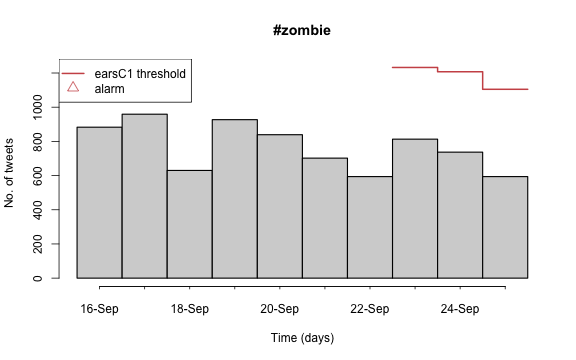
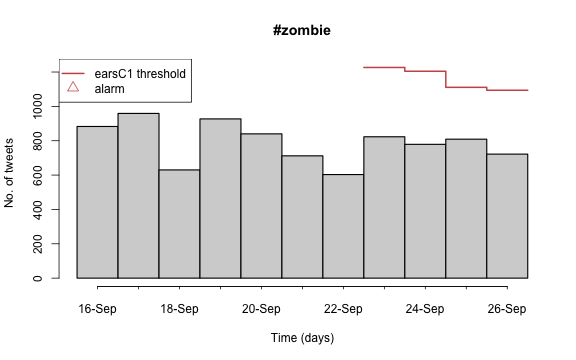
added cusum

diff --git a/_posts/2016-09-25-sootb.md b/_posts/2016-09-25-sootb.md
@@ -6,23 +6,7 @@ bibliography: ~/Literature/Bibtex/jabref.bib
 comments: true
 ---
 
-```{r,include=FALSE,echo=FALSE,message=FALSE}
-##If default fig.path, then set it.
-if (knitr::opts_chunk$get("fig.path") == "figure/") {
-  knitr::opts_knit$set( base.dir = '/Users/hoehle/Sandbox/Blog/')
-  knitr::opts_chunk$set(fig.path="figure/source/2016-09-25-sootb/")
-}
-fullFigPath <- paste0(knitr::opts_knit$get("base.dir"),knitr::opts_chunk$get("fig.path"))
-filePath <- "/Users/hoehle/Sandbox/Blog/figure/source/2016-09-25-sootb/"
 
-knitr::opts_chunk$set(echo = TRUE,fig.width=8,fig.height=5,fig.cap='')
-options(width=90)
-library("dplyr")
-library("ggplot2")
-library("tidyr")
-library("methods")
-theme_set(theme_bw())
-```
 
 ## Abstract
 
@@ -59,7 +43,8 @@ However, despite of extensive research and recommendations, no reliable service 
 Extending the recommendations of the Zombie Survival guide we provide an out-of-the-box (OOTB)
 monitoring system by using the `rtweet` R package to obtain all individual tweets containing the hashtags `#zombie` or `#zombieattack`.
 
-```{r}
+
+```r
 the_query <- "#zombieattack OR #zombie"
 geocode <- ""  #To limit the seach to berlin & surroundings: geocode <- "52.520583,13.402765,25km"
 #Converted query string which works for storing as file
@@ -72,64 +57,51 @@ In particular, the [README](https://github.com/mkearney/rtweet) of the `rtweet` 
 * each tweet is extended with a time stamp of the query-time
 * the entire result of each query us stored into a separate RDS-files using `saveRDS`
 
-```{r,eval=FALSE,echo=FALSE}
-library("rtweet")
-# A file containing the information of your twitter app. To protect the
-# information stored here, this is kept outside the public git repository.
-#
-# The contents of the file are simply:
-# twitter_token <- create_token(app = "zombiemonitor", # whatever you named app
-#   consumer_key = "2zIXXX4L6USa4UfXXXXXXXXXX",
-#   consumer_secret = "oXXXXXXXSwwXXXXXXXXXXXXXXsXXXXXXXmXXXXXXXX")
 
-source("~/Sandbox/Twitter-Trends/auth-zombie.R",encoding="UTF8")
-
-#Perform the query and add time stamp information
-tw_one <- search_tweets(the_query, n = 15000, type="recent", token = twitter_token, geocode=geocode)
-tw_one <- tw_one %>% mutate(query_at = Sys.time(), created_at_Date = as.Date(created_at), the_query = the_query)
-
-#Show what we got
-tw_one %>% summarise(n=n())
-
-#Store to file
-saveRDS(tw_one, file=paste0(filePath,"Stored-Tweets-",safe_query,"-",Sys.Date(),".RDS"))
-```
 
 In a next step, all stored queries are loaded from the RDS files and put together. Subsequently, only the newest time stamped entry about each tweet is kept - this ensures that the re-tweeted counts are up-to-date and no post is counted twice. All these data wrangling operations are easily conducted using `dplyr`. Of course a full database solution would have been more elegant, but R does the job just as well as long it's not millions of queries. Actually, in the example I'm going to use the results of a single query. No matter the data backend, at the end of this pipeline we have a database of tweets. 
 
-```{r,eval=FALSE,echo=FALSE}
-##Load all stored tweet queries
-data_files <- list.files(path = filePath, pattern = paste0("Stored-Tweets-",safe_query,"-*"),full.names=TRUE)
-tw <- as.tbl(bind_rows(lapply(data_files, readRDS)))
 
-##Only keep the newest entry available about each post (retweet counts could have changed)
-tw <- tw %>% group_by(status_id) %>% filter(query_at == max(query_at)) %>% ungroup()
 
-#Store results, this constitutes our database of tweets.
-saveRDS(tw, file=paste0(filePath,"Tweets-Database-",safe_query,"-",Sys.Date(),".RDS"))
-```
 
-```{r}
+```r
 #Read the tweet database
 tw <- readRDS(file=paste0(filePath,"Tweets-Database-",safe_query,"-","2016-09-26",".RDS"))
 options(width=300,tibble.width = Inf)
 tw %>% select(created_at, retweet_count,screen_name,text,hashtags,query_at)
 ```
-```{r,echo=FALSE}
-options(width=90)
+
 ```
+## # A tibble: 12,931 × 6
+##             created_at retweet_count     screen_name                                                                                                                                         text  hashtags            query_at
+##                 <dttm>         <int>           <chr>                                                                                                                                        <chr>    <list>              <dttm>
+## 1  2016-09-25 06:16:28             6 christinebygrav  RT @GEEKYGIRLMMM: #TheWalkingDead #zombie #handmade #travel bag set https://t.co/rdGveWjBVC  #epiconetsy #craftshout #twdfanbas https://t.c <chr [7]> 2016-09-25 10:30:44
+## 2  2016-09-25 05:53:37             2 christinebygrav  RT @GEEKYGIRLMMM: #TheWalkingDead #zombie #handmade #travel bag set https://t.co/rdGveWjBVC  #epiconetsy #craftshout #twdfanbas https://t.c <chr [7]> 2016-09-25 10:30:44
+## 3  2016-09-25 04:45:11             0 KneelBeforeBlog   #TheGirlWithAlltheGifts #MovieReview https://t.co/Oewq6gShPx #GemmaArterton #PaddyConsidine #GlennClose #SenniaNanua #ColmMcCarthy #zombie <chr [8]> 2016-09-25 10:30:44
+## 4  2016-09-25 04:45:10             0     Nemesis4909   #TheGirlWithAlltheGifts #MovieReview https://t.co/AEhhGWYsmw #GemmaArterton #PaddyConsidine #GlennClose #SenniaNanua #ColmMcCarthy #zombie <chr [8]> 2016-09-25 10:30:44
+## 5  2016-09-25 04:28:51             1      donaldo945  RT @NorthWestDecks: Sonic The Hedgehog ZOMBIE Skateboard! #northwestdecks #skateboard #skateboarding #skate #skater #skatelife #zombie http <chr [7]> 2016-09-25 10:30:44
+## 6  2016-09-25 04:03:48             2    clarksonm369   RT @thelovelymars: Throwback to being walkers for Halloween with this chica. #TheWalkingDead #walkers #zombie #twd https://t.co/xPqVnUrAwU <chr [4]> 2016-09-25 10:30:44
+## 7  2016-09-25 01:45:55            62     ColleenTews RT @PennilessScribe: He would end her pain, but he could no longer live in a world that demanded such sacrifice. #zombie #apocalypse\nhttps: <chr [2]> 2016-09-25 10:30:44
+## 8  2016-09-24 23:45:22             0     Nemesis4909   #TheGirlWithAlltheGifts #MovieReview https://t.co/AEhhGWYsmw #GemmaArterton #PaddyConsidine #ColmMcCarthy #GlennClose #SenniaNanua #zombie <chr [8]> 2016-09-25 10:30:44
+## 9  2016-09-24 23:45:21             0 KneelBeforeBlog   #TheGirlWithAlltheGifts #MovieReview https://t.co/Oewq6gShPx #GemmaArterton #PaddyConsidine #ColmMcCarthy #GlennClose #SenniaNanua #zombie <chr [8]> 2016-09-25 10:30:44
+## 10 2016-09-24 23:20:07             2   BlizzGetsBizz   RT @tr1lla_van1lla: hit me in advance for Halloween makeup!!! so excited for fall  #specialeffects #sfx #makeup #halloween #zombie https:/ <chr [5]> 2016-09-25 10:30:44
+## # ... with 12,921 more rows
+```
+
 
 ### OOTB Zombie Surveillance 
 
 We are now ready to prospectively detect changes using the `surveillance` R package [@salmon_etal2016a].
 
-```{r,message=FALSE,warning=FALSE}
+
+```r
 library("surveillance")
 ```
 
 We shall initially focus on the `#zombie` series as it contains more counts. The first step is to convert the `data.frame` of individual tweets into a time series of daily counts.
 
-```{r}
+
+```r
 #' Function to convert data.frame to queries. For convenience we store the time series
 #' and the data.frame jointly as a list. This allows for easy manipulations later on
 #' as we see data.frame and time series to be a joint package.
@@ -155,36 +127,11 @@ zombie <- df_2_timeseries(tw, the_query_subset = "#zombie")
 
 It's easy to visualize the resulting time series using the plotting functionality of the surveillance package.
 
-```{r,echo=FALSE}
-plot(zombie$ts, legend.opts=NULL,
-          xaxis.tickFreq=list("%d"=atChange,"%m"=atChange),
-          xaxis.labelFreq=list("%d"=at2ndChange),xaxis.labelFormat="%d-%b",
-     xlab="Time (days)",col=c("lightgray","black","indianred3"),
-     lty=c(1,1,1,1),lwd=c(1.5,2,2),main=zombie$the_query_subset,ylab="No. of tweets")
-```
+![](http://staff.math.su.se/hoehle/blog/figure/source/2016-09-25-sootb/unnamed-chunk-9-1.png)
 
 We see that the counts on the last day are incomplete. This is because the query was performed at 10:30 CEST and not at midnight. We therefore adjust counts on the last day based on simple inverse probability weighting. This just means that we scale up the counts by the inverse of the fraction the query-hour (10:30 CEST) makes up of 24h (see github code for details). The usefulness of this adjustment relies on the assumption that queries are evenly distributed over the day. 
 
-```{r,echo=FALSE,message=FALSE}
-#' Scale up incomplete cases on the last day
-#'
-#' @param tsl Time series list containing the data.frame of tweets as well as the sts time series
 
-scale_up_last_day <- function(tsl) {
-  require("lubridate")
-  max_time <- tsl$tw %>% select(query_at) %>% summarise(m=max(query_at))
-  when_query <- hour(max_time$m) + minute(max_time$m)/60 + second(max_time$m)/(60*60)
-  scaling_factor <- 24 / when_query
-
-  idx <- which(epoch(tsl$ts) == as.Date(max_time$m))
-
-  #Crude inverse probability weighting to adjust the counts for today.
-  observed(tsl$ts)[idx,] <- round(observed(tsl$ts)[idx,] * scaling_factor)
-  return(tsl)
-}
-
-zombie <- scale_up_last_day(zombie)
-```
 
 We are now ready to apply a surveillance algorithm to the pre-processed time series. We shall pick the so called C1 version of the EARS algorithm documented in @hutwagner_etal2003 or @fricker_etal2008. For a monitored time point $s$ (here: a particular day, say, 2016-09-23), this simple algorithm takes the previous seven observations before $s$ in order to compute the mean and standard deviation, i.e.
 $$
@@ -197,56 +144,21 @@ The algorithm then computes the z-statistic $\operatorname{C1}_s = (y_s - \bar{y
 
 We now apply the EARS C1 monitoring procedure to the zombie time series starting at the 8th day  of the time series. It is important to realize that the result of monitoring a time point in the graphic is obtained by only **looking into the past**. Hence, the relevant time point to consider today is if an alarm would have occurred 2016-09-25. We also show the other time points to see, if we could have detected potential alarms earlier.
 
-```{r}
+
+```r
 zombie[["sts"]] <- earsC(zombie$ts, control=list(range = 8:nrow(zombie$ts),
                          method = "C1", alpha = 1-pnorm(3)))
 ```
 
-```{r,ZOMBIE-TS,echo=FALSE}
-plot_ts_and_sts <- function(tsl,legend_l1="earsC1 threshold") {
-  plot(tsl$ts, legend.opts=NULL,
-       xaxis.tickFreq=list("%d"=atChange,"%m"=atChange),
-       xaxis.labelFreq=list("%d"=at2ndChange),xaxis.labelFormat="%d-%b",
-       xlab="Time (days)",col=c("lightgray","black","indianred3"),
-       lty=c(1,1,1,1),lwd=c(1.5,2,2),main=tsl$the_query,ylab="No. of tweets", ylim=c(0,max(observed(tsl$ts),upperbound(tsl$sts))))
+![](http://staff.math.su.se/hoehle/blog/figure/source/2016-09-25-sootb/ZOMBIE-TS-1.png)
 
-  idx <- seq_len(nrow(tsl$ts))
-  idx_monitor <- which( epoch(tsl$ts) %in% epoch(tsl$sts))
-  idx_alarm <- idx[c(rep(0,min(idx_monitor)-1),as.numeric(alarms(tsl$sts) == 1)) == 1]
-
-  #alarms
-  points(idx_alarm, rep(-12,length(idx_alarm)), pch=24, col="indianred3", cex=1.5, lwd=2)
-  #upper bound
-  lines( c(idx_monitor,tail(idx_monitor,n=1)+1)-0.5, c(upperbound(tsl$sts),tail(upperbound(tsl$sts),n=1)), type="s",col="indianred3",lwd=2)
-  #legend
-  legend(x="topleft",c(legend_l1,"alarm"), lwd=c(2,NA), pch=c(NA,24),col="indianred3",pt.cex=c(1,1.5))
-
-}
-
-#' Calculate additional number of cases needed before alarm.
-#' @param tsl Time series list object containing sts object as well as data.frame of cases
-nExtraBeforeAlarm <- function(tsl) {
-  ((upperbound(tsl$sts) %>%  tail(n=1)) - (observed(tsl$ts) %>% tail(n=1))) %>% 
-    ceiling %>% as.numeric
-}
-
-plot_ts_and_sts(zombie)
-```
-
-What a relief! No suspicious zombie activity appears to be ongoing. Actually, it would have taken `r nExtraBeforeAlarm(zombie)` additional tweets before we would have raised an alarm on 2016-09-25. This is quite a number.
+What a relief! No suspicious zombie activity appears to be ongoing. Actually, it would have taken 372 additional tweets before we would have raised an alarm on 2016-09-25. This is quite a number.
 
 As an additional sensitivity analysis we redo the analyses for the `#zombieattack` hashtag. Here the use of the normal approximation in the computation of the alerts is more questionable. Still, we can get a time series of counts together with the alarm limits.
 
-```{r,ZOMBIEATTACK-TS,echo=FALSE}
-#Repeat everything for the other hashtag.
-zombieattack <- df_2_timeseries(tw, the_query_subset = "#zombieattack") %>% scale_up_last_day
-#Monitor
-zombieattack[["sts"]] <- earsC(zombieattack$ts, control=list(range = 8:nrow(zombieattack$ts),
-                              method = "C1", alpha = 1-pnorm(3)))
-plot_ts_and_sts(zombieattack)
-```
+![](http://staff.math.su.se/hoehle/blog/figure/source/2016-09-25-sootb/ZOMBIEATTACK-TS-1.png)
 
-Also no indication of zombie activity. The number of additional tweets needed before alarm in this case is: `r nExtraBeforeAlarm(zombieattack)`. Altogether, it looks safe out there...
+Also no indication of zombie activity. The number of additional tweets needed before alarm in this case is: 23. Altogether, it looks safe out there...
 
 ## Summary
 
@@ -254,7 +166,7 @@ R provides ideal functionality to quickly extract and monitor twitter time serie
 
 The important question although remains: Does this really work in practice? Can you sleep
 tight, while your R zombie monitor scans twitter? Here is where the **social experiment** starts: Please help by retweeting the post below to create a drill alarm situation.
-More than `r nExtraBeforeAlarm(zombie)` (!) and `r nExtraBeforeAlarm(zombieattack)` additional tweets, respectively, are needed before an alarm will sound. 
+More than 372 (!) and 23 additional tweets, respectively, are needed before an alarm will sound. 
 
 <center>
 <blockquote class="twitter-tweet" data-lang="de"><p lang="en" dir="ltr">New blog entry: Please RT to help me evaluate my <a href="https://twitter.com/hashtag/zombie?src=hash">#zombie</a> monitoring system - <a href="https://t.co/b0gNfpJ0RM">https://t.co/b0gNfpJ0RM</a> <a href="https://twitter.com/hashtag/zombieattack?src=hash">#zombieattack</a> <a href="https://twitter.com/hashtag/biosurveillance?src=hash">#biosurveillance</a> <a href="https://twitter.com/hashtag/rstats?src=hash">#rstats</a> <a href="https://t.co/N3PTZBnaw4">pic.twitter.com/N3PTZBnaw4</a></p>&mdash; Michael Höhle (\@m_hoehle) <a href="https://twitter.com/m_hoehle/status/780037067183157248">25. September 2016</a></blockquote>
@@ -272,32 +184,11 @@ I will continuously update the graphs in this post to see how our efforts are re
 <p>
 <p>
 
-### Update at `r Sys.time()`
+### Update at 2016-09-29 00:05:17
 
 Below we show how the `#zombieattack` series developed after the post was made public:
 
-```{r,ZOMBIEATTACK_UPDATED,echo=FALSE}
-tw <- readRDS(file=paste0(filePath,"Tweets-Database-",safe_query,"-","2016-09-28",".RDS"))
-
-#Work the zombie attack series
-zombieattack_updated <- df_2_timeseries(tw, the_query_subset = "#zombieattack") %>% scale_up_last_day
-#Monitor the series
-zombieattack_updated[["sts"]] <- earsC(zombieattack_updated$ts, control=list(range = 8:nrow(zombieattack_updated$ts),
-                              method = "C1", alpha = 1-pnorm(3)))
-#Only the fake part
-fakeOutbreak <- zombieattack_updated$tw %>% filter(retweet_status_id == "780037067183157248" | status_id == "780037067183157248")
-zombieattack_fakeOutbreak <- df_2_timeseries(fakeOutbreak, the_query_subset = ".*",delete_first_day=FALSE)
-  
-idxFakeOutbreak <- which(epoch(zombieattack_updated$ts) %in% epoch(zombieattack_fakeOutbreak$ts))
-from <- observed(zombieattack_updated$ts)[idxFakeOutbreak,] - as.numeric(observed(zombieattack_fakeOutbreak$ts))
-to <-  observed(zombieattack_updated$ts)[idxFakeOutbreak,]
-
-plot_ts_and_sts(zombieattack_updated)
-for (i in seq_len(length(idxFakeOutbreak))) {
-  x <- idxFakeOutbreak[i] + c(-0.5,0.5)
-  polygon( c(x,rev(x)), c(rep(from[i],2), rep(to[i],2)),col="orange")
-}
-```
+![](http://staff.math.su.se/hoehle/blog/figure/source/2016-09-25-sootb/ZOMBIEATTACK_UPDATED-1.png)
 
 The orange part of the bars indicates the fake outbreak tweet as well as its retweets. It is obvious that despite the increased activity due to the fake outbreak tweets, no alarm is generated. In parts this is explained by the high activity during 20-21 Sep (a previous outbreak?), which inflates the expected number of baseline counts. 
 
@@ -311,29 +202,9 @@ The last point could indeed induce sleepless nights...
 
 From a statistical point, the EARS algorithm sequentially estimates the variance of the baseline counts. As a consequence, the peak on 20-21 Sep  inflates the variance, which results in a high upperbound. Despite some extra activity 25-27 Sep, none of the days are above this bound. For further comparison, we also use a negative binomial CUSUM to see, if the increase is sustained.
 
-```{r,ZOMBIEUPDATE-POISSONCUSUM,echo=FALSE,message=FALSE,results='hide',cache=TRUE}
-#Use Poisson CUSUM with 
-#  \log(\mu_{t,0}) = \beta_0 vs.
-#  \log(\mu_{t,1}) = \beta_0 + \log(2).
-zombieattack_updated[["sts"]] <- glrnb(zombieattack_updated$ts, control=list(range = 9:nrow(zombieattack_updated$ts),mu0=list(S=0,trend=FALSE),c.ARL=0.471,ret="cases",theta=log(1.2)))
-mu0.hat <- predict(zombieattack_updated$sts@control$mu0Model$fitted[[1]],type="response")
-theta.hat <- zombieattack_updated$sts@control$mu0Model$fitted[[1]]$theta
-#set.seed(123)
-#x <- replicate(20000, rpois(length(mu0.hat),lambda=mu0.hat))
-#x <- replicate(100000, rnbinom(length(mu0.hat),mu=mu0.hat,size=theta.hat))
-#pi <- apply(x,1,quantile,prob=c(0.95))
-pi <- qnbinom(0.99, mu=mu0.hat, size=theta.hat)
-```
 
-```{r,ZOMBIEUPDATE-NBINOM-CUSUM-PLOT,results='hide',echo=FALSE}
-#Show result
-plot_ts_and_sts(zombieattack_updated,legend_l1="NBinom CUSUM threshold")
-lines(seq_len(min(zombieattack_updated[["sts"]]@control$range)-1),mu0.hat,type="b",pch=20,col="darkgray")
-lines(seq_len(min(zombieattack_updated[["sts"]]@control$range)-1),pi,pch=20,col="orange")
 
-qnbinom(0.95,mu=mu0.hat[1],size=theta.hat)
-qnbinom(0.95,mu=1.2*mu0.hat[1],size=theta.hat)
-```
+![](http://staff.math.su.se/hoehle/blog/figure/source/2016-09-25-sootb/ZOMBIEUPDATE-NBINOM-CUSUM-PLOT-1.png)
 
 The gray line shows the estimated mean from the eight base-line counts, the orange line shows the corresponding upper 95% quantile of this estimated  distribution. The red line shows the alarm limit of a CUSUM method where the potential shift in the mean is estimated by maximum likelihood at each monitoring instance. The threshold is tuned such that it initially roughly coincides with the 99% quantile of the estimated distribution. Even here, no signal is detected.
 
